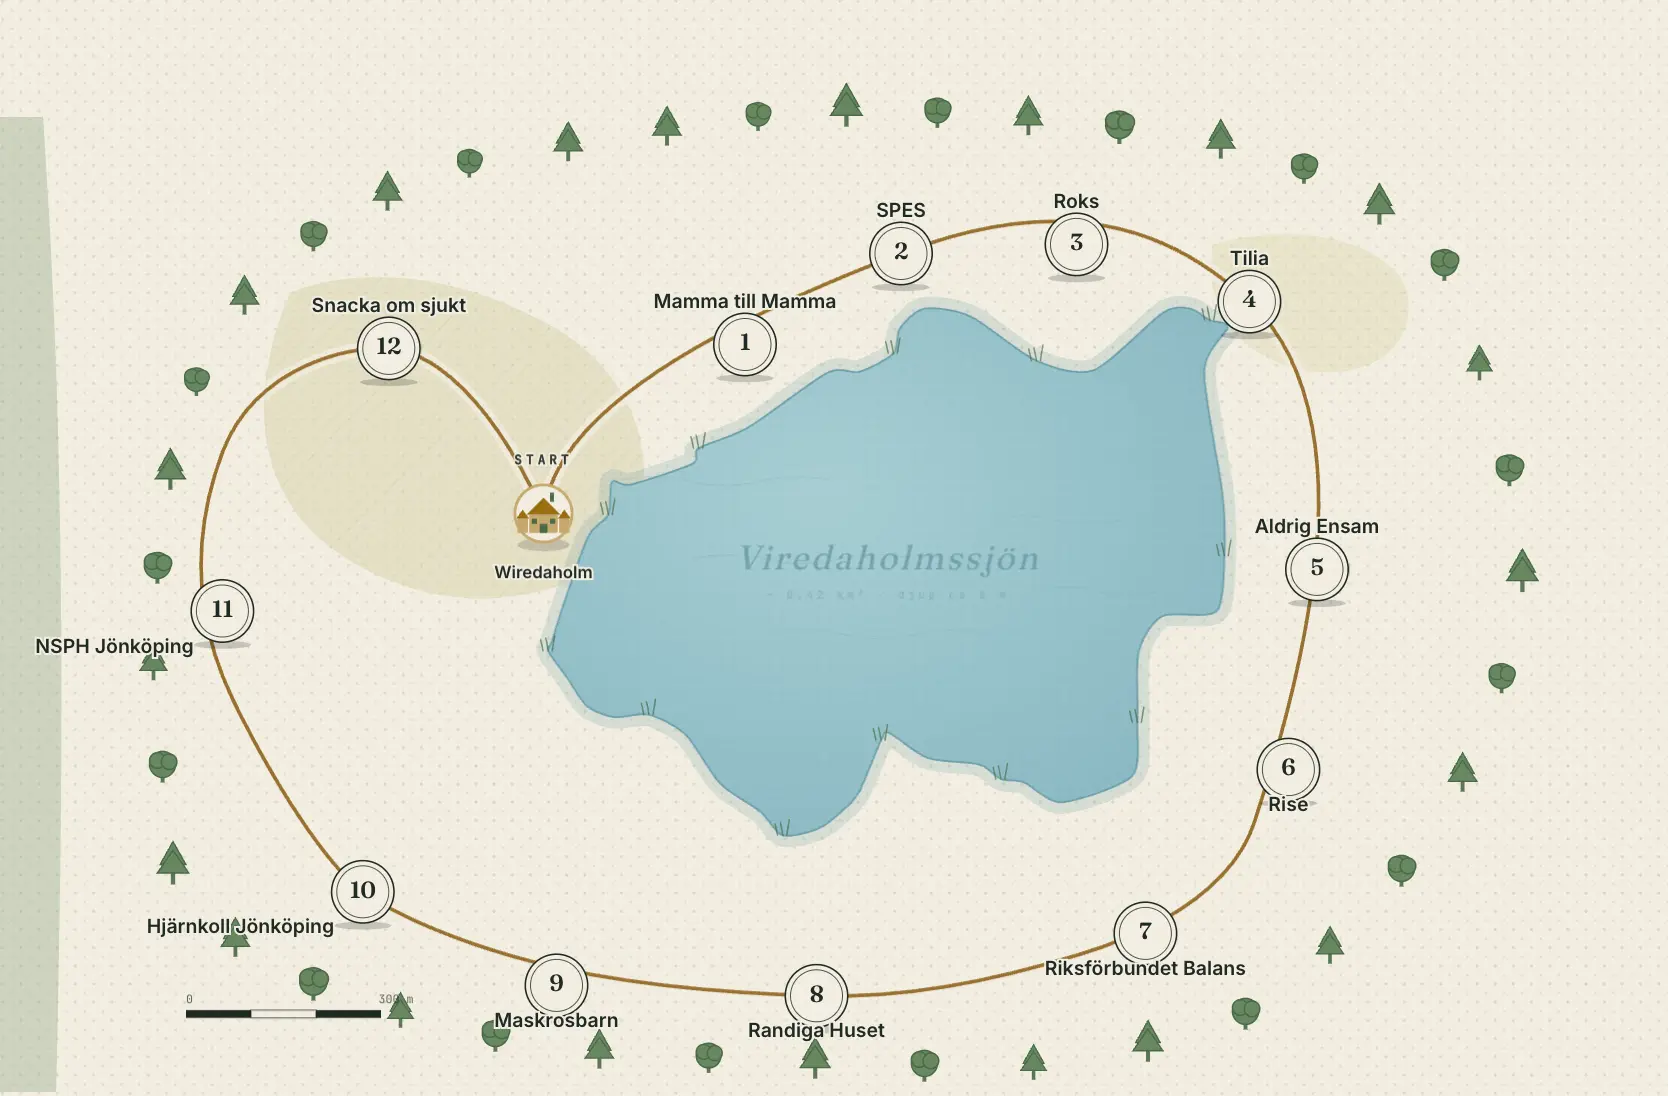
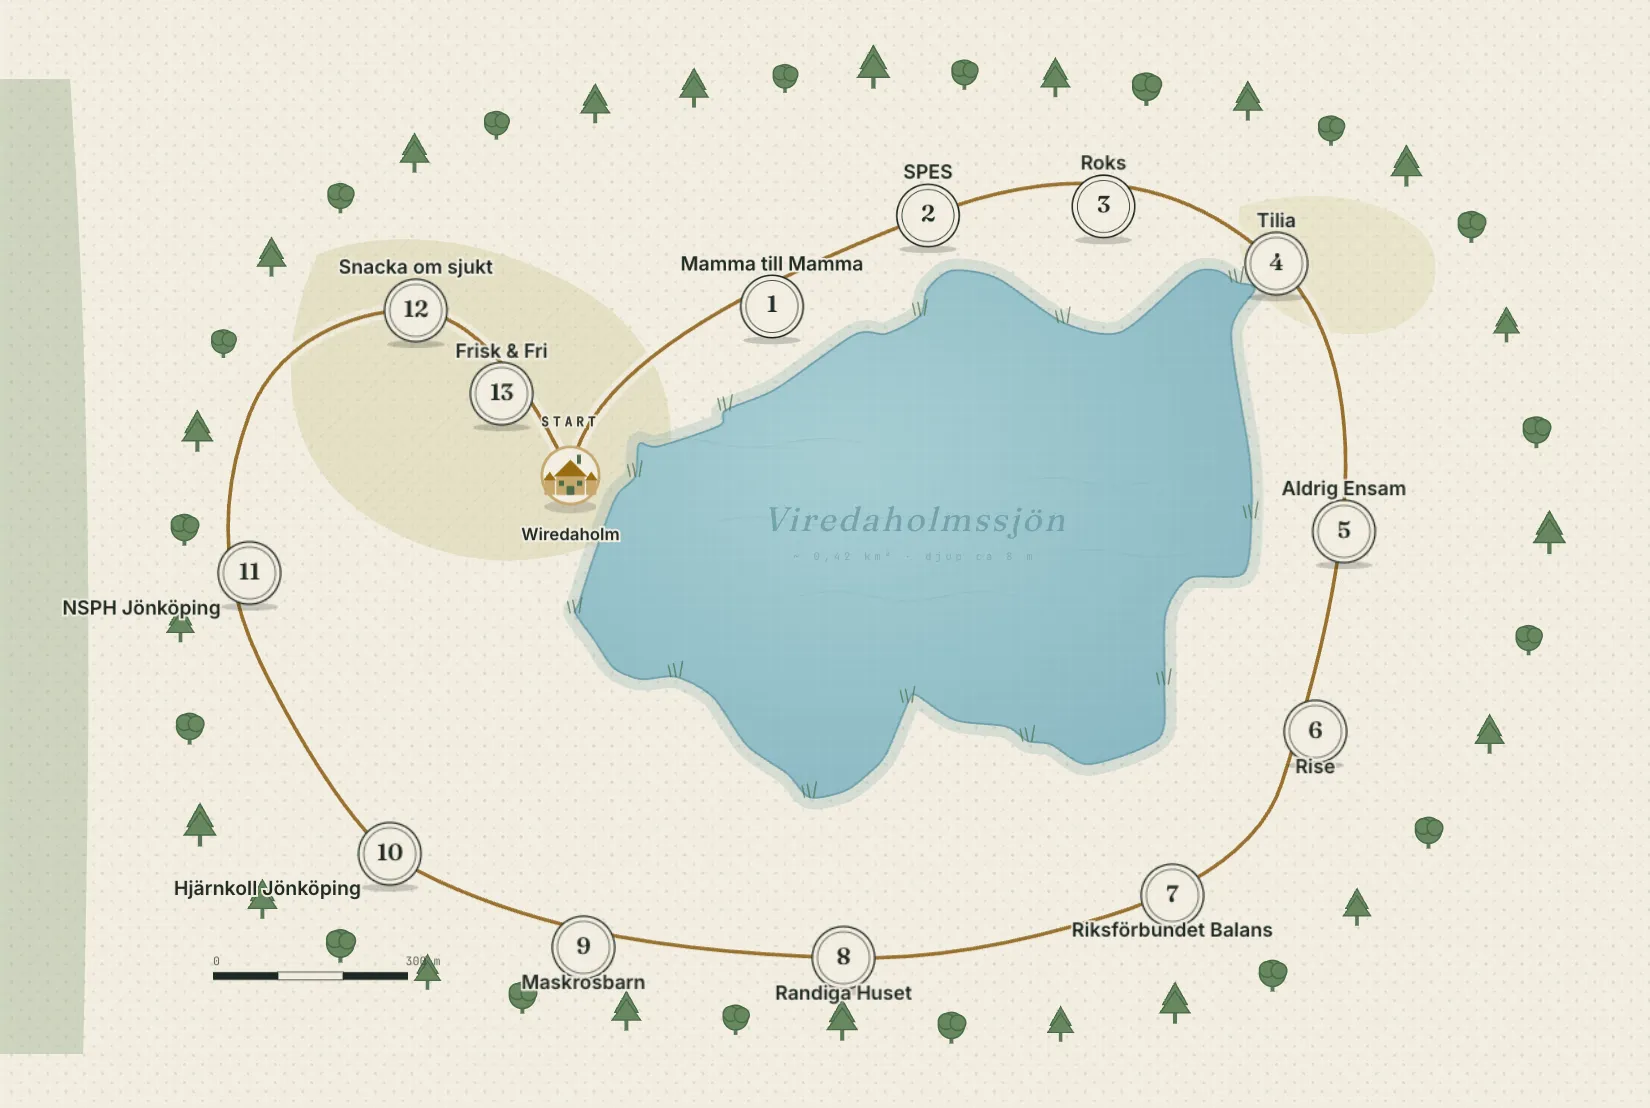
Update preview image + mobile preview, fix og:image tags
- Updated Promenadslingan-vireda.webp (new version, same filename)
- promenad.html: mobile preview (map-mobile-preview) now uses
  Promenadslingan-vireda.webp instead of karta.svg
- Both files: og:image and twitter:image updated from
  deleted preview.webp to Promenadslingan-vireda.webp
- Remove preview.webp (deleted by user)

diff --git a/promenad.html b/promenad.html
@@ -11,11 +11,11 @@
   <meta property="og:url" content="https://ettstegitaget.se/promenad" />
   <meta property="og:title" content="Promenadslingan vid Wiredaholm – Promenad för psykisk hälsa" />
   <meta property="og:description" content="Ta en promenad längs vår 4 km långa slinga runt Viredaholmssjön. Längs vägen finns skyltar från organisationer för psykisk hälsa." />
-  <meta property="og:image" content="https://ettstegitaget.se/preview.webp" />
+  <meta property="og:image" content="https://ettstegitaget.se/Promenadslingan-vireda.webp" />
   <meta name="twitter:card" content="summary_large_image" />
   <meta name="twitter:title" content="Promenadslingan vid Wiredaholm – Promenad för psykisk hälsa" />
   <meta name="twitter:description" content="Ta en promenad längs vår 4 km långa slinga runt Viredaholmssjön. Längs vägen finns skyltar från organisationer för psykisk hälsa." />
-  <meta name="twitter:image" content="https://ettstegitaget.se/preview.webp" />
+  <meta name="twitter:image" content="https://ettstegitaget.se/Promenadslingan-vireda.webp" />
   <!-- Icons & manifest -->
   <link rel="icon" href="favicon.ico" sizes="any" />
   <link rel="icon" href="apple-touch-icon.png" type="image/png" sizes="180x180" />
@@ -574,7 +574,7 @@
 
     <!-- Mobil: förhandsvisning som öppnar helskärm -->
     <div class="map-mobile-preview reveal" onclick="openMapFullscreen()" role="button" tabindex="0" aria-label="Öppna kartan i helskärm">
-      <img src="karta.svg" alt="Förhandsvisning av promenadslingan runt Viredaholmssjön" />
+      <img src="Promenadslingan-vireda.webp" alt="Förhandsvisning av promenadslingan runt Viredaholmssjön" />
       <div class="map-preview-overlay">
         <button class="map-open-btn">
           <svg xmlns="http://www.w3.org/2000/svg" viewBox="0 0 24 24" fill="none" stroke="currentColor" stroke-width="2.5" stroke-linecap="round" stroke-linejoin="round"><path d="M3 3h6M3 3v6M21 3h-6M21 3v6M3 21h6M3 21v-6M21 21h-6M21 21v-6"/></svg>

diff --git a/index.html b/index.html
@@ -10,11 +10,11 @@
   <meta property="og:url" content="https://ettstegitaget.se/" />
   <meta property="og:title" content="Ett Steg I Taget – Ideell förening för psykisk hälsa" />
   <meta property="og:description" content="En ideell förening och en 4 km promenadslinga vid Wiredaholm – för att psykisk ohälsa inte ska behöva bäras ensam." />
-  <meta property="og:image" content="https://ettstegitaget.se/preview.webp" />
+  <meta property="og:image" content="https://ettstegitaget.se/Promenadslingan-vireda.webp" />
   <meta name="twitter:card" content="summary_large_image" />
   <meta name="twitter:title" content="Ett Steg I Taget – Ideell förening för psykisk hälsa" />
   <meta name="twitter:description" content="En ideell förening och en 4 km promenadslinga vid Wiredaholm – för att psykisk ohälsa inte ska behöva bäras ensam." />
-  <meta name="twitter:image" content="https://ettstegitaget.se/preview.webp" />
+  <meta name="twitter:image" content="https://ettstegitaget.se/Promenadslingan-vireda.webp" />
   <!-- Icons & manifest -->
   <link rel="icon" href="favicon.ico" sizes="any" />
   <link rel="icon" href="apple-touch-icon.png" type="image/png" sizes="180x180" />
